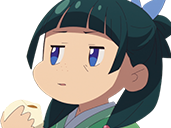
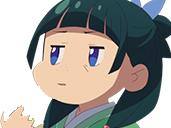
update maomao

diff --git a/src/Controller/Banana_Listener.java b/src/Controller/Banana_Listener.java
@@ -4,8 +4,10 @@ import View.Banana_View;
 
 import java.awt.event.ActionEvent;
 import java.awt.event.ActionListener;
+import java.awt.event.MouseEvent;
+import java.awt.event.MouseListener;
 
-public class Banana_Listener implements ActionListener {
+public class Banana_Listener implements ActionListener, MouseListener {
     final private Banana_View bananaView;
 
     public Banana_Listener(Banana_View bananaView) {
@@ -21,6 +23,45 @@ public class Banana_Listener implements ActionListener {
             this.bananaView.bananaModel.updateHighetPoint();
             this.bananaView.jLabel_highestPoint.setText("The Highest: " + counter);
         }
+        if (this.bananaView.bananaModel.choseTheme == 1){
+            this.bananaView.bananaModel.choseTheme = 3;
+            this.bananaView.resetScreen();
+        } else if (this.bananaView.bananaModel.choseTheme == 3){
+            this.bananaView.bananaModel.choseTheme = 1;
+            this.bananaView.resetScreen();
+        }
+
         this.bananaView.jLabel_score.setText(counter + "");// hiển thị điểm sau khi đã được cộng
+    }
+
+    @Override
+    public void mouseClicked(MouseEvent e) {
+
+    }
+
+    @Override
+    public void mousePressed(MouseEvent e) {
+        if (this.bananaView.bananaModel.choseTheme == 1){
+            this.bananaView.bananaModel.choseTheme = 3;
+            this.bananaView.resetScreen();
+        }
+    }
+
+    @Override
+    public void mouseReleased(MouseEvent e) {
+        if (this.bananaView.bananaModel.choseTheme == 3){
+            this.bananaView.bananaModel.choseTheme = 1;
+            this.bananaView.resetScreen();
+        }
+    }
+
+    @Override
+    public void mouseEntered(MouseEvent e) {
+
+    }
+
+    @Override
+    public void mouseExited(MouseEvent e) {
+
     }
 }

diff --git a/src/View/Banana_View.java b/src/View/Banana_View.java
@@ -6,12 +6,13 @@ import Model.Banana_Model;
 
 import javax.swing.*;
 import java.awt.*;
+import java.awt.event.MouseListener;
 
 
 public class Banana_View extends JFrame {
     public final Banana_Model bananaModel = new Banana_Model();
     public JLabel jLabel_score, jLabel_highestPoint;
-    private final Theme[] themes = new Theme[3];
+    private final Theme[] themes = new Theme[4];
     private JButton jButton_Up;
     private final JPanel jPanel = new JPanel(new GridBagLayout());
     private final Font font = new Font("Arial", Font.BOLD, 50); // tạo font chữ
@@ -117,6 +118,7 @@ public class Banana_View extends JFrame {
         themes[0] = new Theme(194, 230, 47, "BananaButton");
         themes[1] = new Theme(26, 186, 90, "maomao");
         themes[2] = new Theme(26, 186, 90, "avocado");
+        themes[3] = new Theme(26, 186, 90, "maomaoEating");
 
         resetScreen(); // hiển thị theme
 

diff --git a/src/Model/Banana_Model.java b/src/Model/Banana_Model.java
@@ -7,7 +7,7 @@ import java.io.IOException;
 import java.util.Scanner;
 
 public class Banana_Model {
-    private long counter = 0;
+    private long counter = 145632;
     public int choseTheme = 0;
     //File lấy dữ liệu điểm cao nhất (System.getProperty("user.dir") : lấy địa chỉ của dự án)
     private final File highestPoint = new File(System.getProperty("user.dir") + "\\src\\Model\\highestPoint.txt");// lầy file từ src
